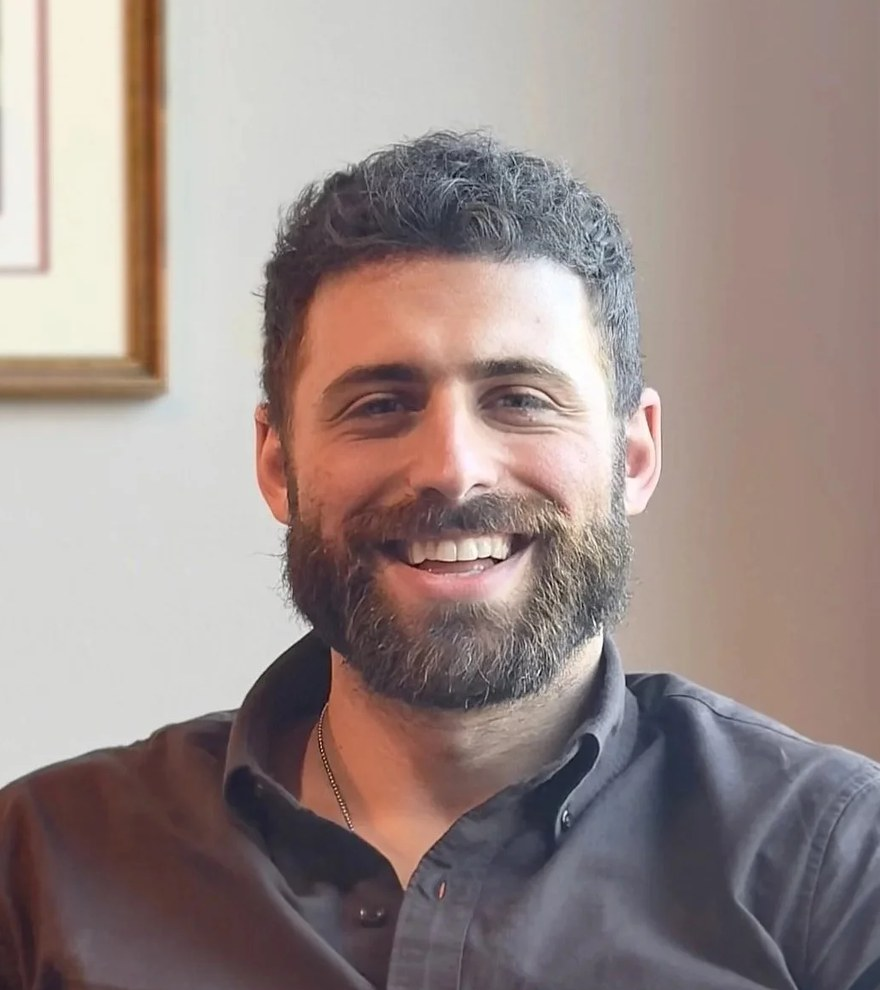
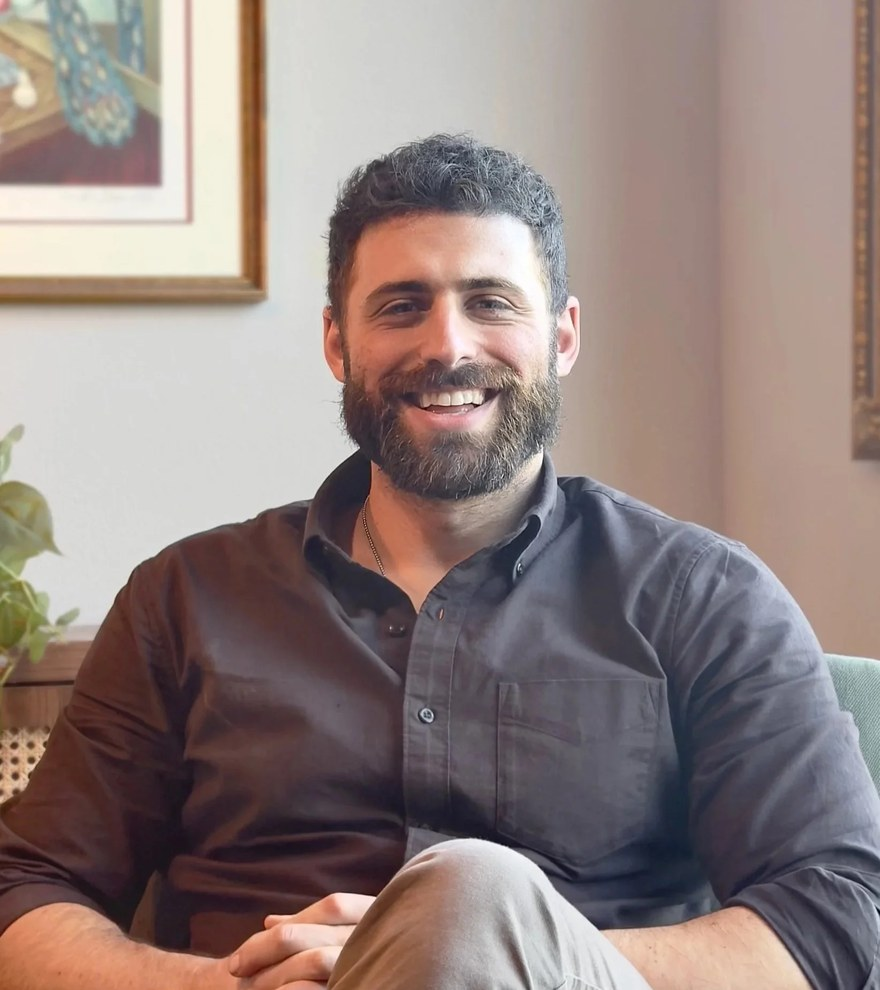
Wider, deeper environmental crop (seated pose, hands); doubled breathing range; columns 400/360

diff --git a/education.html b/education.html
@@ -29,7 +29,7 @@
   <script defer src="assets/motion.js?v=3"></script>
   <script defer src="assets/analytics.js?v=1"></script>
   <style>
-    .event-card { display: grid; grid-template-columns: 1fr 340px; gap: 48px; align-items: start;
+    .event-card { display: grid; grid-template-columns: 1fr 360px; gap: 48px; align-items: start;
       background: #fff; border: 1px solid var(--line); border-radius: 16px; padding: 44px; }
     .event-meta { display: flex; flex-wrap: wrap; gap: 8px 10px; margin: 18px 0 22px; }
     .event-meta span { font-size: 0.82rem; font-weight: 600; color: var(--accent-dk);
@@ -100,15 +100,15 @@
           <a href="education-psychodynamic-capacities.html"><svg class="portrait-blob" viewBox="0 0 880 990" xmlns="http://www.w3.org/2000/svg" role="img" aria-label="Max Levine, Psy.D.">
             <defs>
               <clipPath id="gm-pA">
-                <path d="M 440.0 29.1 C 535.7 33.0 647.0 96.9 717.0 174.5 C 787.0 252.2 856.9 384.6 860.0 495.0 C 863.1 605.4 805.8 760.5 735.8 837.2 C 665.8 913.9 536.6 957.3 440.0 955.0 C 343.4 952.7 224.8 899.9 156.2 823.3 C 87.6 746.6 30.6 607.1 28.3 495.0 C 26.1 382.9 74.0 228.6 142.6 150.9 C 211.2 73.3 344.3 25.2 440.0 29.1 Z">
+                <path d="M 440.0 51.6 C 532.6 57.9 632.2 120.3 701.1 194.2 C 770.1 268.1 848.6 388.8 853.8 495.0 C 858.9 601.2 801.1 758.8 732.1 831.5 C 663.1 904.1 533.7 935.1 440.0 930.8 C 346.3 926.5 237.3 878.4 170.2 805.8 C 103.0 733.2 41.1 603.3 37.0 495.0 C 32.9 386.7 78.7 230.0 145.8 156.1 C 213.0 82.2 347.4 45.3 440.0 51.6 Z">
                   <animate class="gm-morph" attributeName="d" begin="indefinite" dur="22s"
                      repeatCount="indefinite" calcMode="spline" keyTimes="0;.25;.5;.75;1"
                      keySplines=".45 0 .55 1;.45 0 .55 1;.45 0 .55 1;.45 0 .55 1"
-                     values="M 440.0 29.1 C 535.7 33.0 647.0 96.9 717.0 174.5 C 787.0 252.2 856.9 384.6 860.0 495.0 C 863.1 605.4 805.8 760.5 735.8 837.2 C 665.8 913.9 536.6 957.3 440.0 955.0 C 343.4 952.7 224.8 899.9 156.2 823.3 C 87.6 746.6 30.6 607.1 28.3 495.0 C 26.1 382.9 74.0 228.6 142.6 150.9 C 211.2 73.3 344.3 25.2 440.0 29.1 Z;
-                     M 440.0 34.1 C 535.9 31.1 666.2 76.5 735.4 153.3 C 804.5 230.1 856.5 382.9 854.9 495.0 C 853.4 607.1 795.3 749.9 726.2 826.0 C 657.0 902.1 536.5 950.3 440.0 951.6 C 343.5 952.9 218.0 909.7 147.3 833.6 C 76.6 757.5 13.9 605.4 16.0 495.0 C 18.2 384.6 89.6 248.2 160.2 171.4 C 230.9 94.5 344.1 37.1 440.0 34.1 Z;
-                     M 440.0 19.4 C 537.0 16.5 671.5 70.5 738.4 149.8 C 805.3 229.1 844.8 384.0 841.3 495.0 C 837.8 606.0 784.3 734.9 717.5 816.0 C 650.6 897.1 535.4 978.2 440.0 981.6 C 344.6 984.9 211.7 917.1 145.2 836.0 C 78.7 754.9 39.1 606.5 41.0 495.0 C 42.9 383.5 90.1 246.5 156.6 167.2 C 223.1 87.9 343.0 22.3 440.0 19.4 Z;
-                     M 440.0 5.4 C 535.5 8.2 652.9 90.1 719.5 171.6 C 786.1 253.2 837.3 384.4 839.7 495.0 C 842.2 605.6 800.9 755.3 734.3 835.5 C 667.7 915.6 536.8 977.5 440.0 975.9 C 343.2 974.4 219.2 906.5 153.6 826.3 C 88.0 746.2 47.9 606.9 46.6 495.0 C 45.4 383.1 80.7 236.7 146.2 155.2 C 211.8 73.6 344.5 2.7 440.0 5.4 Z;
-                     M 440.0 29.1 C 535.7 33.0 647.0 96.9 717.0 174.5 C 787.0 252.2 856.9 384.6 860.0 495.0 C 863.1 605.4 805.8 760.5 735.8 837.2 C 665.8 913.9 536.6 957.3 440.0 955.0 C 343.4 952.7 224.8 899.9 156.2 823.3 C 87.6 746.6 30.6 607.1 28.3 495.0 C 26.1 382.9 74.0 228.6 142.6 150.9 C 211.2 73.3 344.3 25.2 440.0 29.1 Z" />
+                     values="M 440.0 51.6 C 532.6 57.9 632.2 120.3 701.1 194.2 C 770.1 268.1 848.6 388.8 853.8 495.0 C 858.9 601.2 801.1 758.8 732.1 831.5 C 663.1 904.1 533.7 935.1 440.0 930.8 C 346.3 926.5 237.3 878.4 170.2 805.8 C 103.0 733.2 41.1 603.3 37.0 495.0 C 32.9 386.7 78.7 230.0 145.8 156.1 C 213.0 82.2 347.4 45.3 440.0 51.6 Z;
+                     M 440.0 59.8 C 532.7 55.0 662.4 87.9 730.5 160.4 C 798.6 232.9 851.5 386.6 848.7 495.0 C 846.0 603.4 782.1 739.0 714.0 810.6 C 645.9 882.2 533.5 922.2 440.0 924.7 C 346.5 927.2 223.0 897.3 152.9 825.7 C 82.9 754.0 16.0 601.1 19.6 495.0 C 23.2 388.9 104.2 261.5 174.3 188.9 C 244.3 116.4 347.3 64.5 440.0 59.8 Z;
+                     M 440.0 31.7 C 534.1 26.6 671.6 77.4 735.5 154.6 C 799.3 231.9 828.7 388.0 823.1 495.0 C 817.5 602.0 765.5 716.8 701.7 796.4 C 637.8 876.0 532.1 966.9 440.0 972.5 C 347.9 978.1 212.5 909.6 149.2 830.0 C 85.8 750.4 56.3 602.5 59.9 495.0 C 63.5 387.5 107.4 262.0 170.7 184.8 C 234.1 107.6 345.9 36.7 440.0 31.7 Z;
+                     M 440.0 11.9 C 532.3 16.3 642.1 108.8 705.4 189.3 C 768.6 269.8 815.6 388.5 819.5 495.0 C 823.5 601.5 792.4 749.4 729.1 828.0 C 665.9 906.7 533.9 969.8 440.0 967.0 C 346.1 964.1 227.6 889.6 165.7 811.0 C 103.8 732.3 71.0 603.0 68.7 495.0 C 66.3 387.0 89.7 243.3 151.6 162.8 C 213.5 82.3 347.7 7.5 440.0 11.9 Z;
+                     M 440.0 51.6 C 532.6 57.9 632.2 120.3 701.1 194.2 C 770.1 268.1 848.6 388.8 853.8 495.0 C 858.9 601.2 801.1 758.8 732.1 831.5 C 663.1 904.1 533.7 935.1 440.0 930.8 C 346.3 926.5 237.3 878.4 170.2 805.8 C 103.0 733.2 41.1 603.3 37.0 495.0 C 32.9 386.7 78.7 230.0 145.8 156.1 C 213.0 82.2 347.4 45.3 440.0 51.6 Z" />
                 </path>
               </clipPath>
               <linearGradient id="gm-glow-fill" x1="0" y1="0" x2="1" y2="1">
@@ -121,19 +121,19 @@
                  keyTimes="0;.5;1" keySplines=".4 0 .6 1;.4 0 .6 1"
                  values="72 -44; 52 -26; 72 -44" />
               <g transform="scale(.94)">
-                <path fill="url(#gm-glow-fill)" d="M 440.0 45.3 C 537.0 40.9 673.1 70.1 742.5 145.0 C 812.0 220.0 860.7 382.8 856.9 495.0 C 853.1 607.2 789.1 741.4 719.6 818.4 C 650.1 895.4 535.3 954.5 440.0 956.9 C 344.7 959.3 219.0 910.0 147.9 833.0 C 76.7 756.0 10.8 605.3 12.9 495.0 C 15.0 384.7 89.1 246.3 160.3 171.4 C 231.4 96.4 343.0 49.7 440.0 45.3 Z">
+                <path fill="url(#gm-glow-fill)" d="M 440.0 72.6 C 534.1 66.1 670.9 79.7 739.4 150.1 C 807.9 220.5 856.7 386.6 851.1 495.0 C 845.4 603.4 773.8 727.7 705.2 800.5 C 636.7 873.3 532.1 927.6 440.0 931.8 C 347.9 935.9 223.4 898.5 152.9 825.7 C 82.4 752.9 13.3 601.1 16.9 495.0 C 20.5 388.9 104.0 259.6 174.5 189.2 C 245.1 118.8 345.9 79.2 440.0 72.6 Z">
                   <animate class="gm-morph" attributeName="d" begin="indefinite" dur="30s"
                      repeatCount="indefinite" calcMode="spline" keyTimes="0;.25;.5;.75;1"
                      keySplines=".45 0 .55 1;.45 0 .55 1;.45 0 .55 1;.45 0 .55 1"
-                     values="M 440.0 45.3 C 537.0 40.9 673.1 70.1 742.5 145.0 C 812.0 220.0 860.7 382.8 856.9 495.0 C 853.1 607.2 789.1 741.4 719.6 818.4 C 650.1 895.4 535.3 954.5 440.0 956.9 C 344.7 959.3 219.0 910.0 147.9 833.0 C 76.7 756.0 10.8 605.3 12.9 495.0 C 15.0 384.7 89.1 246.3 160.3 171.4 C 231.4 96.4 343.0 49.7 440.0 45.3 Z;
-                     M 440.0 9.7 C 536.3 7.3 668.1 72.5 735.3 153.4 C 802.4 234.3 846.2 385.2 842.8 495.0 C 839.3 604.8 781.6 731.2 714.5 812.5 C 647.3 893.8 536.0 977.4 440.0 982.7 C 344.0 987.9 203.2 925.1 138.5 843.8 C 73.8 762.5 48.6 607.7 51.8 495.0 C 54.9 382.3 92.5 248.8 157.2 167.9 C 222.0 87.0 343.7 12.1 440.0 9.7 Z;
-                     M 440.0 -0.7 C 535.1 2.1 653.0 90.6 718.1 173.2 C 783.2 255.8 826.5 383.1 830.6 495.0 C 834.6 606.9 807.4 764.6 742.3 844.7 C 677.2 924.8 537.2 979.8 440.0 975.7 C 342.8 971.6 225.1 900.4 158.8 820.3 C 92.6 740.2 44.4 605.6 42.6 495.0 C 40.7 384.4 81.4 239.4 147.6 156.8 C 213.9 74.1 344.9 -3.4 440.0 -0.7 Z;
-                     M 440.0 45.1 C 537.3 48.3 654.0 92.0 723.5 167.0 C 793.1 242.0 855.1 383.1 857.3 495.0 C 859.5 606.9 806.3 760.7 736.7 838.2 C 667.2 915.8 535.1 964.6 440.0 960.2 C 344.9 955.7 236.9 889.2 166.3 811.6 C 95.7 734.1 20.7 605.6 16.3 495.0 C 11.9 384.4 69.3 222.8 139.9 147.8 C 210.5 72.9 342.7 41.9 440.0 45.1 Z;
-                     M 440.0 45.3 C 537.0 40.9 673.1 70.1 742.5 145.0 C 812.0 220.0 860.7 382.8 856.9 495.0 C 853.1 607.2 789.1 741.4 719.6 818.4 C 650.1 895.4 535.3 954.5 440.0 956.9 C 344.7 959.3 219.0 910.0 147.9 833.0 C 76.7 756.0 10.8 605.3 12.9 495.0 C 15.0 384.7 89.1 246.3 160.3 171.4 C 231.4 96.4 343.0 49.7 440.0 45.3 Z" />
+                     values="M 440.0 72.6 C 534.1 66.1 670.9 79.7 739.4 150.1 C 807.9 220.5 856.7 386.6 851.1 495.0 C 845.4 603.4 773.8 727.7 705.2 800.5 C 636.7 873.3 532.1 927.6 440.0 931.8 C 347.9 935.9 223.4 898.5 152.9 825.7 C 82.4 752.9 13.3 601.1 16.9 495.0 C 20.5 388.9 104.0 259.6 174.5 189.2 C 245.1 118.8 345.9 79.2 440.0 72.6 Z;
+                     M 440.0 18.7 C 533.3 14.3 667.3 80.1 731.2 159.5 C 795.2 238.9 829.3 389.4 823.9 495.0 C 818.5 600.6 762.8 713.2 698.8 793.1 C 634.8 872.9 532.9 966.5 440.0 974.1 C 347.1 981.8 202.5 918.8 141.4 839.0 C 80.3 759.1 68.3 603.9 73.3 495.0 C 78.3 386.1 110.3 265.0 171.4 185.6 C 232.5 106.2 346.7 23.0 440.0 18.7 Z;
+                     M 440.0 5.7 C 531.8 10.3 642.1 109.9 703.6 191.4 C 765.0 273.0 802.9 387.0 808.8 495.0 C 814.8 603.0 800.6 761.0 739.1 839.6 C 677.7 918.2 534.4 972.7 440.0 966.6 C 345.6 960.5 235.7 881.3 172.9 802.7 C 110.0 724.1 66.4 601.5 63.0 495.0 C 59.6 388.5 89.8 245.5 152.6 164.0 C 215.4 82.4 348.2 1.1 440.0 5.7 Z;
+                     M 440.0 71.7 C 534.4 77.0 641.0 114.0 709.5 184.6 C 778.0 255.1 847.0 387.0 850.9 495.0 C 854.8 603.0 801.4 758.9 732.9 832.4 C 664.4 906.0 531.8 943.0 440.0 936.3 C 348.2 929.5 251.9 865.6 182.1 792.0 C 112.4 718.5 28.0 601.5 21.4 495.0 C 14.9 388.5 73.3 223.5 143.1 153.0 C 212.8 82.4 345.6 66.5 440.0 71.7 Z;
+                     M 440.0 72.6 C 534.1 66.1 670.9 79.7 739.4 150.1 C 807.9 220.5 856.7 386.6 851.1 495.0 C 845.4 603.4 773.8 727.7 705.2 800.5 C 636.7 873.3 532.1 927.6 440.0 931.8 C 347.9 935.9 223.4 898.5 152.9 825.7 C 82.4 752.9 13.3 601.1 16.9 495.0 C 20.5 388.9 104.0 259.6 174.5 189.2 C 245.1 118.8 345.9 79.2 440.0 72.6 Z" />
                 </path>
               </g>
             </g>
-            <image href="assets/img/max-levine.jpg?v=4" width="880" height="990"
+            <image href="assets/img/max-levine.jpg?v=6" width="880" height="990"
                    preserveAspectRatio="xMidYMid slice" clip-path="url(#gm-pA)"/>
           </svg></a>
         </figure>

diff --git a/education-psychodynamic-capacities.html b/education-psychodynamic-capacities.html
@@ -29,7 +29,7 @@
   <script defer src="assets/motion.js?v=3"></script>
   <script defer src="assets/analytics.js?v=1"></script>
   <style>
-    .event-layout { display: grid; grid-template-columns: 1fr 360px; gap: 64px; align-items: start; }
+    .event-layout { display: grid; grid-template-columns: 1fr 400px; gap: 64px; align-items: start; }
     .event-meta { display: flex; flex-wrap: wrap; gap: 8px 10px; margin: 18px 0 22px; }
     .event-meta span { font-size: 0.82rem; font-weight: 600; color: var(--accent-dk);
       background: var(--accent-soft); border-radius: 999px; padding: 6px 13px; }
@@ -139,15 +139,15 @@
           <svg class="portrait-blob" viewBox="0 0 880 990" xmlns="http://www.w3.org/2000/svg" role="img" aria-label="Max Levine, Psy.D.">
             <defs>
               <clipPath id="gm-pA">
-                <path d="M 440.0 29.1 C 535.7 33.0 647.0 96.9 717.0 174.5 C 787.0 252.2 856.9 384.6 860.0 495.0 C 863.1 605.4 805.8 760.5 735.8 837.2 C 665.8 913.9 536.6 957.3 440.0 955.0 C 343.4 952.7 224.8 899.9 156.2 823.3 C 87.6 746.6 30.6 607.1 28.3 495.0 C 26.1 382.9 74.0 228.6 142.6 150.9 C 211.2 73.3 344.3 25.2 440.0 29.1 Z">
+                <path d="M 440.0 51.6 C 532.6 57.9 632.2 120.3 701.1 194.2 C 770.1 268.1 848.6 388.8 853.8 495.0 C 858.9 601.2 801.1 758.8 732.1 831.5 C 663.1 904.1 533.7 935.1 440.0 930.8 C 346.3 926.5 237.3 878.4 170.2 805.8 C 103.0 733.2 41.1 603.3 37.0 495.0 C 32.9 386.7 78.7 230.0 145.8 156.1 C 213.0 82.2 347.4 45.3 440.0 51.6 Z">
                   <animate class="gm-morph" attributeName="d" begin="indefinite" dur="22s"
                      repeatCount="indefinite" calcMode="spline" keyTimes="0;.25;.5;.75;1"
                      keySplines=".45 0 .55 1;.45 0 .55 1;.45 0 .55 1;.45 0 .55 1"
-                     values="M 440.0 29.1 C 535.7 33.0 647.0 96.9 717.0 174.5 C 787.0 252.2 856.9 384.6 860.0 495.0 C 863.1 605.4 805.8 760.5 735.8 837.2 C 665.8 913.9 536.6 957.3 440.0 955.0 C 343.4 952.7 224.8 899.9 156.2 823.3 C 87.6 746.6 30.6 607.1 28.3 495.0 C 26.1 382.9 74.0 228.6 142.6 150.9 C 211.2 73.3 344.3 25.2 440.0 29.1 Z;
-                     M 440.0 34.1 C 535.9 31.1 666.2 76.5 735.4 153.3 C 804.5 230.1 856.5 382.9 854.9 495.0 C 853.4 607.1 795.3 749.9 726.2 826.0 C 657.0 902.1 536.5 950.3 440.0 951.6 C 343.5 952.9 218.0 909.7 147.3 833.6 C 76.6 757.5 13.9 605.4 16.0 495.0 C 18.2 384.6 89.6 248.2 160.2 171.4 C 230.9 94.5 344.1 37.1 440.0 34.1 Z;
-                     M 440.0 19.4 C 537.0 16.5 671.5 70.5 738.4 149.8 C 805.3 229.1 844.8 384.0 841.3 495.0 C 837.8 606.0 784.3 734.9 717.5 816.0 C 650.6 897.1 535.4 978.2 440.0 981.6 C 344.6 984.9 211.7 917.1 145.2 836.0 C 78.7 754.9 39.1 606.5 41.0 495.0 C 42.9 383.5 90.1 246.5 156.6 167.2 C 223.1 87.9 343.0 22.3 440.0 19.4 Z;
-                     M 440.0 5.4 C 535.5 8.2 652.9 90.1 719.5 171.6 C 786.1 253.2 837.3 384.4 839.7 495.0 C 842.2 605.6 800.9 755.3 734.3 835.5 C 667.7 915.6 536.8 977.5 440.0 975.9 C 343.2 974.4 219.2 906.5 153.6 826.3 C 88.0 746.2 47.9 606.9 46.6 495.0 C 45.4 383.1 80.7 236.7 146.2 155.2 C 211.8 73.6 344.5 2.7 440.0 5.4 Z;
-                     M 440.0 29.1 C 535.7 33.0 647.0 96.9 717.0 174.5 C 787.0 252.2 856.9 384.6 860.0 495.0 C 863.1 605.4 805.8 760.5 735.8 837.2 C 665.8 913.9 536.6 957.3 440.0 955.0 C 343.4 952.7 224.8 899.9 156.2 823.3 C 87.6 746.6 30.6 607.1 28.3 495.0 C 26.1 382.9 74.0 228.6 142.6 150.9 C 211.2 73.3 344.3 25.2 440.0 29.1 Z" />
+                     values="M 440.0 51.6 C 532.6 57.9 632.2 120.3 701.1 194.2 C 770.1 268.1 848.6 388.8 853.8 495.0 C 858.9 601.2 801.1 758.8 732.1 831.5 C 663.1 904.1 533.7 935.1 440.0 930.8 C 346.3 926.5 237.3 878.4 170.2 805.8 C 103.0 733.2 41.1 603.3 37.0 495.0 C 32.9 386.7 78.7 230.0 145.8 156.1 C 213.0 82.2 347.4 45.3 440.0 51.6 Z;
+                     M 440.0 59.8 C 532.7 55.0 662.4 87.9 730.5 160.4 C 798.6 232.9 851.5 386.6 848.7 495.0 C 846.0 603.4 782.1 739.0 714.0 810.6 C 645.9 882.2 533.5 922.2 440.0 924.7 C 346.5 927.2 223.0 897.3 152.9 825.7 C 82.9 754.0 16.0 601.1 19.6 495.0 C 23.2 388.9 104.2 261.5 174.3 188.9 C 244.3 116.4 347.3 64.5 440.0 59.8 Z;
+                     M 440.0 31.7 C 534.1 26.6 671.6 77.4 735.5 154.6 C 799.3 231.9 828.7 388.0 823.1 495.0 C 817.5 602.0 765.5 716.8 701.7 796.4 C 637.8 876.0 532.1 966.9 440.0 972.5 C 347.9 978.1 212.5 909.6 149.2 830.0 C 85.8 750.4 56.3 602.5 59.9 495.0 C 63.5 387.5 107.4 262.0 170.7 184.8 C 234.1 107.6 345.9 36.7 440.0 31.7 Z;
+                     M 440.0 11.9 C 532.3 16.3 642.1 108.8 705.4 189.3 C 768.6 269.8 815.6 388.5 819.5 495.0 C 823.5 601.5 792.4 749.4 729.1 828.0 C 665.9 906.7 533.9 969.8 440.0 967.0 C 346.1 964.1 227.6 889.6 165.7 811.0 C 103.8 732.3 71.0 603.0 68.7 495.0 C 66.3 387.0 89.7 243.3 151.6 162.8 C 213.5 82.3 347.7 7.5 440.0 11.9 Z;
+                     M 440.0 51.6 C 532.6 57.9 632.2 120.3 701.1 194.2 C 770.1 268.1 848.6 388.8 853.8 495.0 C 858.9 601.2 801.1 758.8 732.1 831.5 C 663.1 904.1 533.7 935.1 440.0 930.8 C 346.3 926.5 237.3 878.4 170.2 805.8 C 103.0 733.2 41.1 603.3 37.0 495.0 C 32.9 386.7 78.7 230.0 145.8 156.1 C 213.0 82.2 347.4 45.3 440.0 51.6 Z" />
                 </path>
               </clipPath>
               <linearGradient id="gm-glow-fill" x1="0" y1="0" x2="1" y2="1">
@@ -160,19 +160,19 @@
                  keyTimes="0;.5;1" keySplines=".4 0 .6 1;.4 0 .6 1"
                  values="72 -44; 52 -26; 72 -44" />
               <g transform="scale(.94)">
-                <path fill="url(#gm-glow-fill)" d="M 440.0 45.3 C 537.0 40.9 673.1 70.1 742.5 145.0 C 812.0 220.0 860.7 382.8 856.9 495.0 C 853.1 607.2 789.1 741.4 719.6 818.4 C 650.1 895.4 535.3 954.5 440.0 956.9 C 344.7 959.3 219.0 910.0 147.9 833.0 C 76.7 756.0 10.8 605.3 12.9 495.0 C 15.0 384.7 89.1 246.3 160.3 171.4 C 231.4 96.4 343.0 49.7 440.0 45.3 Z">
+                <path fill="url(#gm-glow-fill)" d="M 440.0 72.6 C 534.1 66.1 670.9 79.7 739.4 150.1 C 807.9 220.5 856.7 386.6 851.1 495.0 C 845.4 603.4 773.8 727.7 705.2 800.5 C 636.7 873.3 532.1 927.6 440.0 931.8 C 347.9 935.9 223.4 898.5 152.9 825.7 C 82.4 752.9 13.3 601.1 16.9 495.0 C 20.5 388.9 104.0 259.6 174.5 189.2 C 245.1 118.8 345.9 79.2 440.0 72.6 Z">
                   <animate class="gm-morph" attributeName="d" begin="indefinite" dur="30s"
                      repeatCount="indefinite" calcMode="spline" keyTimes="0;.25;.5;.75;1"
                      keySplines=".45 0 .55 1;.45 0 .55 1;.45 0 .55 1;.45 0 .55 1"
-                     values="M 440.0 45.3 C 537.0 40.9 673.1 70.1 742.5 145.0 C 812.0 220.0 860.7 382.8 856.9 495.0 C 853.1 607.2 789.1 741.4 719.6 818.4 C 650.1 895.4 535.3 954.5 440.0 956.9 C 344.7 959.3 219.0 910.0 147.9 833.0 C 76.7 756.0 10.8 605.3 12.9 495.0 C 15.0 384.7 89.1 246.3 160.3 171.4 C 231.4 96.4 343.0 49.7 440.0 45.3 Z;
-                     M 440.0 9.7 C 536.3 7.3 668.1 72.5 735.3 153.4 C 802.4 234.3 846.2 385.2 842.8 495.0 C 839.3 604.8 781.6 731.2 714.5 812.5 C 647.3 893.8 536.0 977.4 440.0 982.7 C 344.0 987.9 203.2 925.1 138.5 843.8 C 73.8 762.5 48.6 607.7 51.8 495.0 C 54.9 382.3 92.5 248.8 157.2 167.9 C 222.0 87.0 343.7 12.1 440.0 9.7 Z;
-                     M 440.0 -0.7 C 535.1 2.1 653.0 90.6 718.1 173.2 C 783.2 255.8 826.5 383.1 830.6 495.0 C 834.6 606.9 807.4 764.6 742.3 844.7 C 677.2 924.8 537.2 979.8 440.0 975.7 C 342.8 971.6 225.1 900.4 158.8 820.3 C 92.6 740.2 44.4 605.6 42.6 495.0 C 40.7 384.4 81.4 239.4 147.6 156.8 C 213.9 74.1 344.9 -3.4 440.0 -0.7 Z;
-                     M 440.0 45.1 C 537.3 48.3 654.0 92.0 723.5 167.0 C 793.1 242.0 855.1 383.1 857.3 495.0 C 859.5 606.9 806.3 760.7 736.7 838.2 C 667.2 915.8 535.1 964.6 440.0 960.2 C 344.9 955.7 236.9 889.2 166.3 811.6 C 95.7 734.1 20.7 605.6 16.3 495.0 C 11.9 384.4 69.3 222.8 139.9 147.8 C 210.5 72.9 342.7 41.9 440.0 45.1 Z;
-                     M 440.0 45.3 C 537.0 40.9 673.1 70.1 742.5 145.0 C 812.0 220.0 860.7 382.8 856.9 495.0 C 853.1 607.2 789.1 741.4 719.6 818.4 C 650.1 895.4 535.3 954.5 440.0 956.9 C 344.7 959.3 219.0 910.0 147.9 833.0 C 76.7 756.0 10.8 605.3 12.9 495.0 C 15.0 384.7 89.1 246.3 160.3 171.4 C 231.4 96.4 343.0 49.7 440.0 45.3 Z" />
+                     values="M 440.0 72.6 C 534.1 66.1 670.9 79.7 739.4 150.1 C 807.9 220.5 856.7 386.6 851.1 495.0 C 845.4 603.4 773.8 727.7 705.2 800.5 C 636.7 873.3 532.1 927.6 440.0 931.8 C 347.9 935.9 223.4 898.5 152.9 825.7 C 82.4 752.9 13.3 601.1 16.9 495.0 C 20.5 388.9 104.0 259.6 174.5 189.2 C 245.1 118.8 345.9 79.2 440.0 72.6 Z;
+                     M 440.0 18.7 C 533.3 14.3 667.3 80.1 731.2 159.5 C 795.2 238.9 829.3 389.4 823.9 495.0 C 818.5 600.6 762.8 713.2 698.8 793.1 C 634.8 872.9 532.9 966.5 440.0 974.1 C 347.1 981.8 202.5 918.8 141.4 839.0 C 80.3 759.1 68.3 603.9 73.3 495.0 C 78.3 386.1 110.3 265.0 171.4 185.6 C 232.5 106.2 346.7 23.0 440.0 18.7 Z;
+                     M 440.0 5.7 C 531.8 10.3 642.1 109.9 703.6 191.4 C 765.0 273.0 802.9 387.0 808.8 495.0 C 814.8 603.0 800.6 761.0 739.1 839.6 C 677.7 918.2 534.4 972.7 440.0 966.6 C 345.6 960.5 235.7 881.3 172.9 802.7 C 110.0 724.1 66.4 601.5 63.0 495.0 C 59.6 388.5 89.8 245.5 152.6 164.0 C 215.4 82.4 348.2 1.1 440.0 5.7 Z;
+                     M 440.0 71.7 C 534.4 77.0 641.0 114.0 709.5 184.6 C 778.0 255.1 847.0 387.0 850.9 495.0 C 854.8 603.0 801.4 758.9 732.9 832.4 C 664.4 906.0 531.8 943.0 440.0 936.3 C 348.2 929.5 251.9 865.6 182.1 792.0 C 112.4 718.5 28.0 601.5 21.4 495.0 C 14.9 388.5 73.3 223.5 143.1 153.0 C 212.8 82.4 345.6 66.5 440.0 71.7 Z;
+                     M 440.0 72.6 C 534.1 66.1 670.9 79.7 739.4 150.1 C 807.9 220.5 856.7 386.6 851.1 495.0 C 845.4 603.4 773.8 727.7 705.2 800.5 C 636.7 873.3 532.1 927.6 440.0 931.8 C 347.9 935.9 223.4 898.5 152.9 825.7 C 82.4 752.9 13.3 601.1 16.9 495.0 C 20.5 388.9 104.0 259.6 174.5 189.2 C 245.1 118.8 345.9 79.2 440.0 72.6 Z" />
                 </path>
               </g>
             </g>
-            <image href="assets/img/max-levine.jpg?v=4" width="880" height="990"
+            <image href="assets/img/max-levine.jpg?v=6" width="880" height="990"
                    preserveAspectRatio="xMidYMid slice" clip-path="url(#gm-pA)"/>
           </svg>
         </figure>
